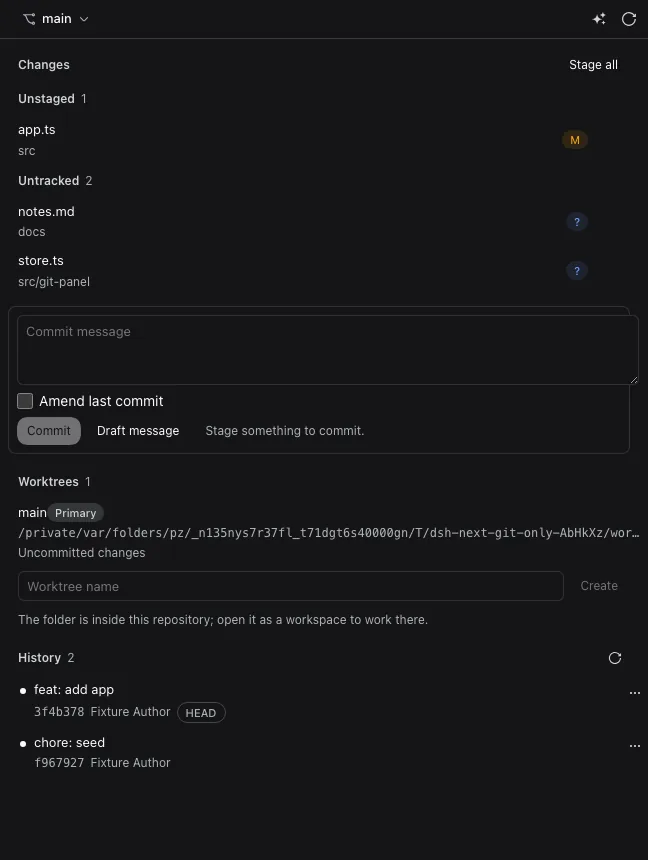
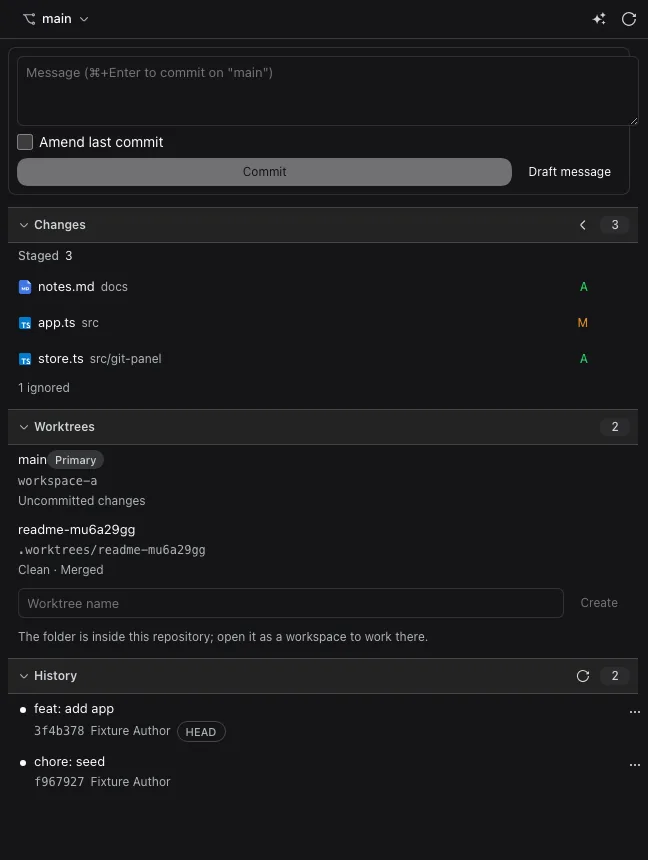
docs(git): refresh the panel screenshots and steps
The README now follows the new order (message, then the change list), documents
the fold and the bulk actions, and ships refreshed dark-theme images captured
from a real runtime: the panel overview, the recovery banner, and focused crops
of the Worktrees and History sections. The e2e marker asserts the accordion
behavior it shows.

diff --git a/tests/e2e/mount.e2e.ts b/tests/e2e/mount.e2e.ts
@@ -624,6 +624,18 @@ const pluginMarkers: Record<string, (page: Page) => Promise<void>> = {
       expect(readFileSync(join(workspaceA, '.git', 'info', 'exclude'), 'utf8')).toContain('.worktrees/')
       const worktreeRow = page.locator('[data-dsh-git="worktree"]').filter({ hasText: slug })
       await expect(worktreeRow).toBeVisible({ timeout: 20_000 })
+
+      // The sections are accordion headers: collapsing one hides its body and
+      // leaves the others alone, and expanding brings it back.
+      const worktreesToggle = page.locator('[data-dsh-git="section-toggle"][data-section="worktrees"]')
+      await worktreesToggle.click()
+      await expect(worktreesToggle).toHaveAttribute('aria-expanded', 'false')
+      await expect(page.locator('[data-dsh-git="worktree"]')).toHaveCount(0)
+      await expect(page.locator('[data-dsh-git="row"][data-path="src/app.ts"]')).toBeVisible()
+      await worktreesToggle.click()
+      await expect(worktreesToggle).toHaveAttribute('aria-expanded', 'true')
+      await expect(worktreeRow).toBeVisible()
+
       await worktreeRow.scrollIntoViewIfNeeded()
       await capture('worktrees')
 

diff --git a/.agents/notes/implemented/2026-09-18-dsh-next-git-source-control.md b/.agents/notes/implemented/2026-09-18-dsh-next-git-source-control.md
@@ -29,10 +29,14 @@ git service. The package is `"private": true` until release is intended.
   worktree/slug/setup/include/compose grammar, version gating, address building,
   the commit-message draft, and the agent-verb payload contract.
 - **Browser half** (`src/client/`) — tab type plus keyed body and title
-  registrations, the guide capsule, the section stack, the diff pane, the
-  danger confirmations, the hook-output section, and the refresh model
-  (open, window focus, tab visibility, agent turn end, manual, after every
-  write).
+  registrations, the guide capsule, the accordion section stack, the diff
+  pane, the danger confirmations, the hook-output section, and the refresh
+  model (open, window focus, tab visibility, agent turn end, manual, after
+  every write). The layout follows the reference surface users already know:
+  the message box and its Commit action sit above the change list, each
+  section is a sticky band with hairline borders, a count pill and its own
+  bulk actions, and a file row is one line of type glyph, name, muted
+  directory and a status letter colored by what the change means.
 - **Tests** — one shared real-git fixture module
   (`tests/git-fixture.ts`, 18 scenarios, determinism self-test) used by both
   the vitest suites and the mount marker; 367 package tests; the RPC contract
@@ -71,6 +75,24 @@ git service. The package is `"private": true` until release is intended.
 - **A conflicted worktree update is named, not silent.** The merge happens in
   another working tree, which this panel is not showing, so a conflict there
   raises `operation-in-progress` naming that path.
+
+## UI decisions
+
+- **Sections are independent accordions, not a single-open one.** Opening
+  History does not close Changes: a commit needs the change list and the
+  message together. The header is a real button with `aria-expanded` and
+  `aria-controls`, its actions sit beside it (a button cannot nest in a
+  button), and a collapsed History section does not read the log until it is
+  expanded.
+- **Bulk actions moved into the section header** as icon buttons (stage all,
+  unstage all, discard all) so the list keeps the width; discard all still runs
+  through the danger confirmation naming every affected path.
+- **Status marks are git's own letters, colored** (`M` amber, `A`/`U` green,
+  `D` and conflicts red) rather than pill badges, so a row scans in one line.
+- **The commit box takes the branch and the platform chord**
+  (`Message (Cmd/Ctrl+Enter to commit on "main")`), and the chord commits from
+  the message box. The platform is read from `navigator.platform`, which jsdom
+  leaves empty, so the fallback is `Ctrl` in tests.
 
 ## Deviations and follow-ups
 

diff --git a/packages/dsh-next-git/README.zh.md b/packages/dsh-next-git/README.zh.md
@@ -10,8 +10,10 @@
 
 1. 打开右侧边栏的起始指南（罗盘标签页），选择 **源代码管理**，该标签页会就地打开。
 2. 顶部显示当前分支，以及相对上游领先或落后多少提交。点击分支名即可切换分支。
-3. 在**更改**中点击任意一行查看差异；悬停该行可看到**暂存**、**取消暂存**和**放弃更改**。
-4. 输入提交信息，或点击**生成信息草稿**让插件根据更改列表生成，然后点击**提交**。
+3. 输入提交信息，或点击**生成信息草稿**让插件根据更改列表生成，然后在信息框中按
+   `Cmd`/`Ctrl` + `Enter` 或点击**提交**。
+4. 在**更改**中点击任意一行查看差异；悬停该行可看到**暂存**、**取消暂存**和**放弃更改**，
+   也可以用分区标题栏批量暂存、取消暂存或放弃全部更改。点击分区标题即可折叠该分区。
 5. 在**工作树**中输入名称并点击**创建**，即可在本仓库内得到位于
    `.worktrees/<名称>`、检出 `dsh-git/<名称>` 分支的新副本。
 6. 在**历史**中，通过任意提交的 `⋯` 菜单复制哈希、检出、还原或拣选该提交。

diff --git a/packages/dsh-next-git/README.md b/packages/dsh-next-git/README.md
@@ -13,10 +13,12 @@ to leave the GUI for the everyday git loop.
    **Source control**. The tab opens in its place.
 2. The header shows the branch you are on and how far ahead or behind its
    upstream you are. Click the branch name to switch branches.
-3. Under **Changes**, click any row to read its diff. Hover a row for
-   **Stage**, **Unstage** and **Discard**.
-4. Type a commit message — or press **Draft message** to have one derived from
-   the change list — then press **Commit**.
+3. Type a commit message — or press **Draft message** to have one derived from
+   the change list — then press **Commit** (or `Cmd`/`Ctrl` + `Enter` from the
+   message box).
+4. Under **Changes**, click any row to read its diff. Hover a row for
+   **Stage**, **Unstage** and **Discard**, or use the section header to stage,
+   unstage or discard everything. Click a section title to fold it away.
 5. Under **Worktrees**, name a worktree and press **Create** to get a fresh
    checkout at `.worktrees/<name>` on branch `dsh-git/<name>`, without leaving
    this repository.
